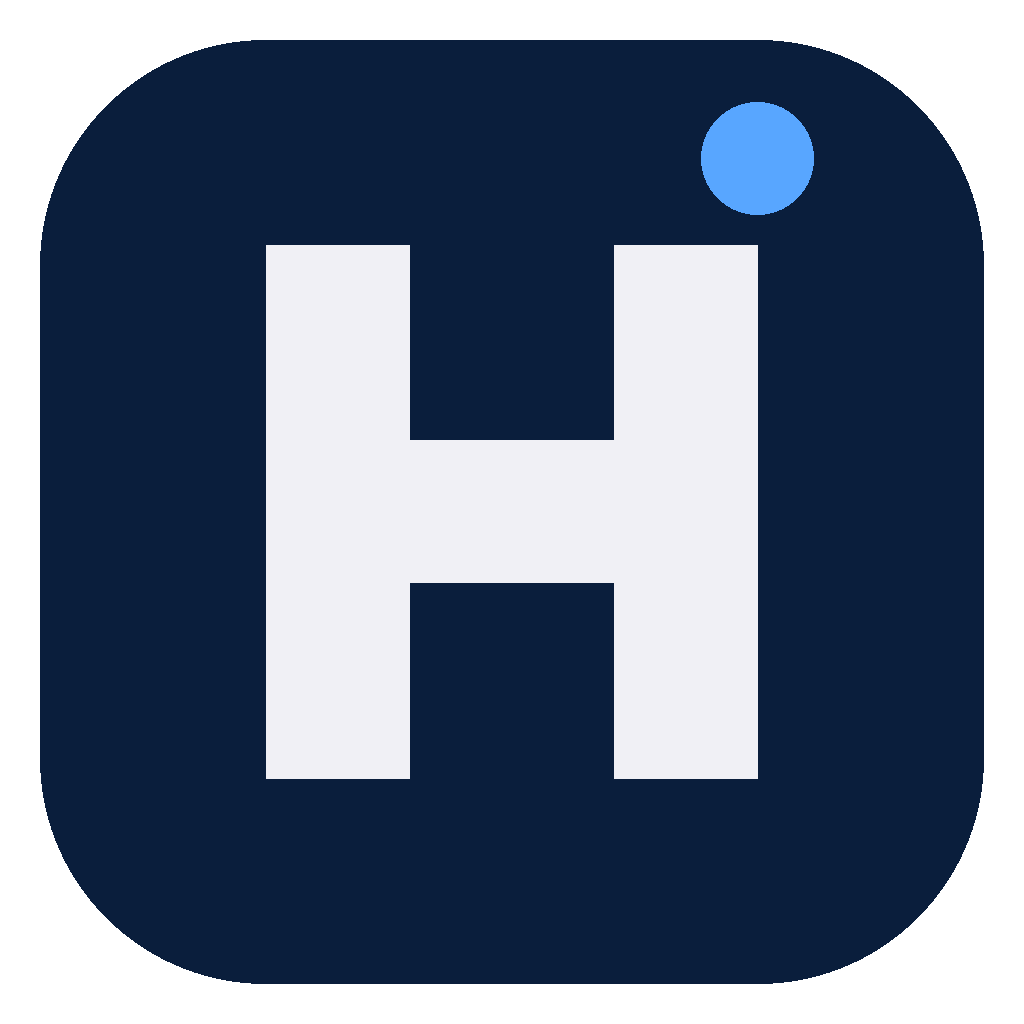
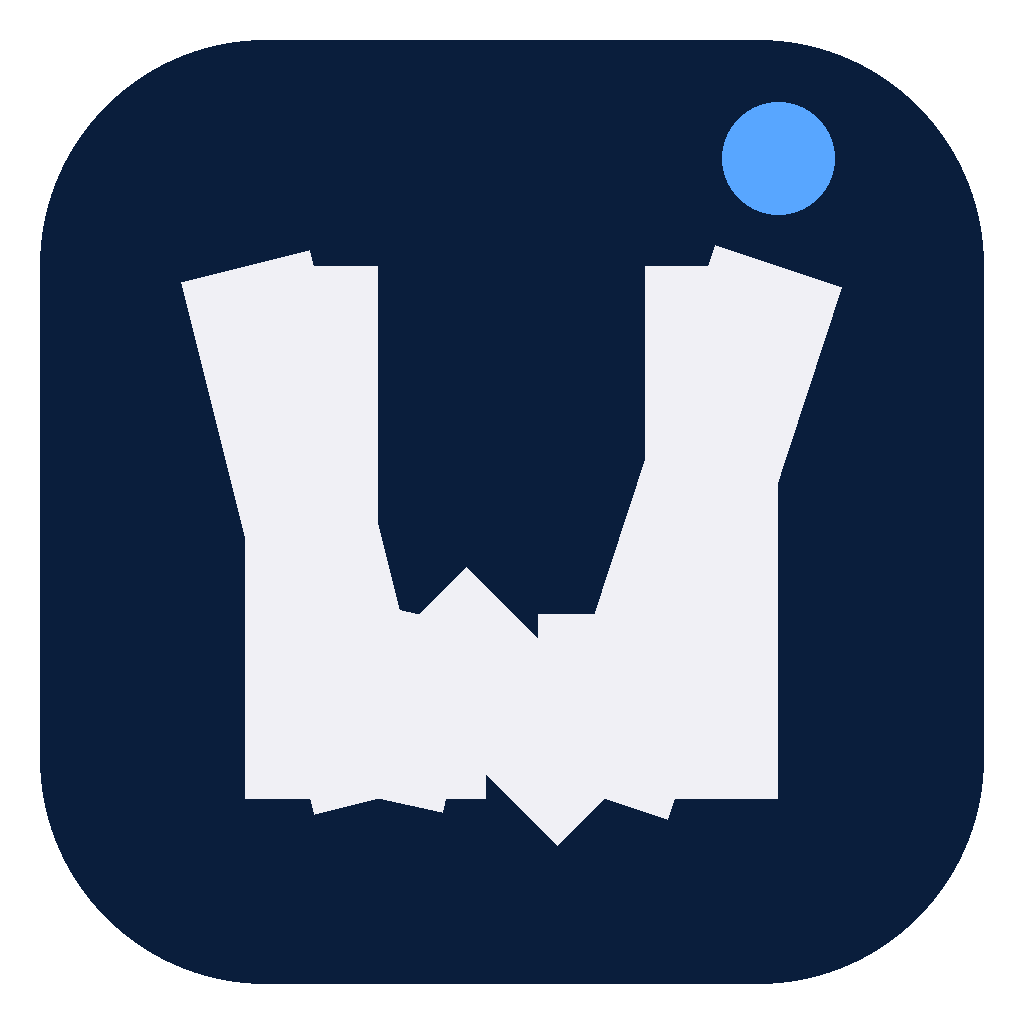
feat(brand): rename app display name to wakii
- titlebar/crash/mobile/onboarding/statusbar translate() fallbacks: Orca → wakii
- productName: wakii
- logo.svg wordmark + regenerated W-monogram icons

Changed region(s): [[0.1562, 0.0938, 0.8438, 0.8438]]

diff --git a/src/renderer/src/app-shell/TitlebarLeftControls.tsx b/src/renderer/src/app-shell/TitlebarLeftControls.tsx
@@ -71,10 +71,10 @@ export function TitlebarLeftControls({ layout }: { layout: AppChromeLayout }): R
             <ContextMenuTrigger asChild>
               <div
                 className="titlebar-app-name"
-                aria-label={translate('auto.App.5096cbbc86', 'Orca')}
+                aria-label={translate('auto.App.5096cbbc86', 'wakii')}
               >
                 <span className="titlebar-app-name-main">
-                  {translate('auto.App.5096cbbc86', 'Orca')}
+                  {translate('auto.App.5096cbbc86', 'wakii')}
                 </span>
               </div>
             </ContextMenuTrigger>

diff --git a/src/renderer/src/components/crash-report/CrashReportDialogSurface.tsx b/src/renderer/src/components/crash-report/CrashReportDialogSurface.tsx
@@ -249,7 +249,7 @@ export function CrashReportDialogSurface({
                 <div className="font-medium text-foreground">{formatSummary(report)}</div>
                 <div className="mt-1 text-muted-foreground">
                   {new Date(report.createdAt).toLocaleString()} · {report.platform} {report.arch} ·
-                  {translate('auto.components.crash.report.CrashReportDialog.835037edc9', 'Orca')}{' '}
+                  {translate('auto.components.crash.report.CrashReportDialog.835037edc9', 'wakii')}{' '}
                   {report.appVersion}
                 </div>
               </div>

diff --git a/src/renderer/src/components/status-bar/ResourceUsageStatusSegment.tsx b/src/renderer/src/components/status-bar/ResourceUsageStatusSegment.tsx
@@ -270,7 +270,7 @@ function AppSection({
         </button>
         <div className="flex-1 min-w-0 py-2 pr-3 flex items-center justify-between">
           <span className="text-[11px] font-semibold uppercase tracking-wide truncate text-muted-foreground">
-            {translate('auto.components.status.bar.ResourceUsageStatusSegment.288a4dd177', 'Orca')}
+            {translate('auto.components.status.bar.ResourceUsageStatusSegment.288a4dd177', 'wakii')}
           </span>
           <div className="flex items-center gap-2 shrink-0">
             <Sparkline samples={app.history} />

diff --git a/src/renderer/src/components/mobile/slides/HomeSlide.tsx b/src/renderer/src/components/mobile/slides/HomeSlide.tsx
@@ -9,7 +9,7 @@ export function HomeSlide({ tapping }: { tapping: boolean }): React.JSX.Element 
         <div className="mp-app-brand">
           <OrcaLogo />
           <span className="mp-app-brand-name">
-            {translate('auto.components.mobile.slides.HomeSlide.5d94e8ddcc', 'Orca')}
+            {translate('auto.components.mobile.slides.HomeSlide.5d94e8ddcc', 'wakii')}
           </span>
         </div>
         <button

diff --git a/src/renderer/src/components/onboarding/OnboardingFlow.tsx b/src/renderer/src/components/onboarding/OnboardingFlow.tsx
@@ -210,7 +210,7 @@ export default function OnboardingFlow({
                 className="h-7 w-auto shrink-0 invert dark:invert-0"
               />
               <span>
-                {translate('auto.components.onboarding.OnboardingFlow.a249f81538', 'Orca')}
+                {translate('auto.components.onboarding.OnboardingFlow.a249f81538', 'wakii')}
               </span>
             </div>
 
